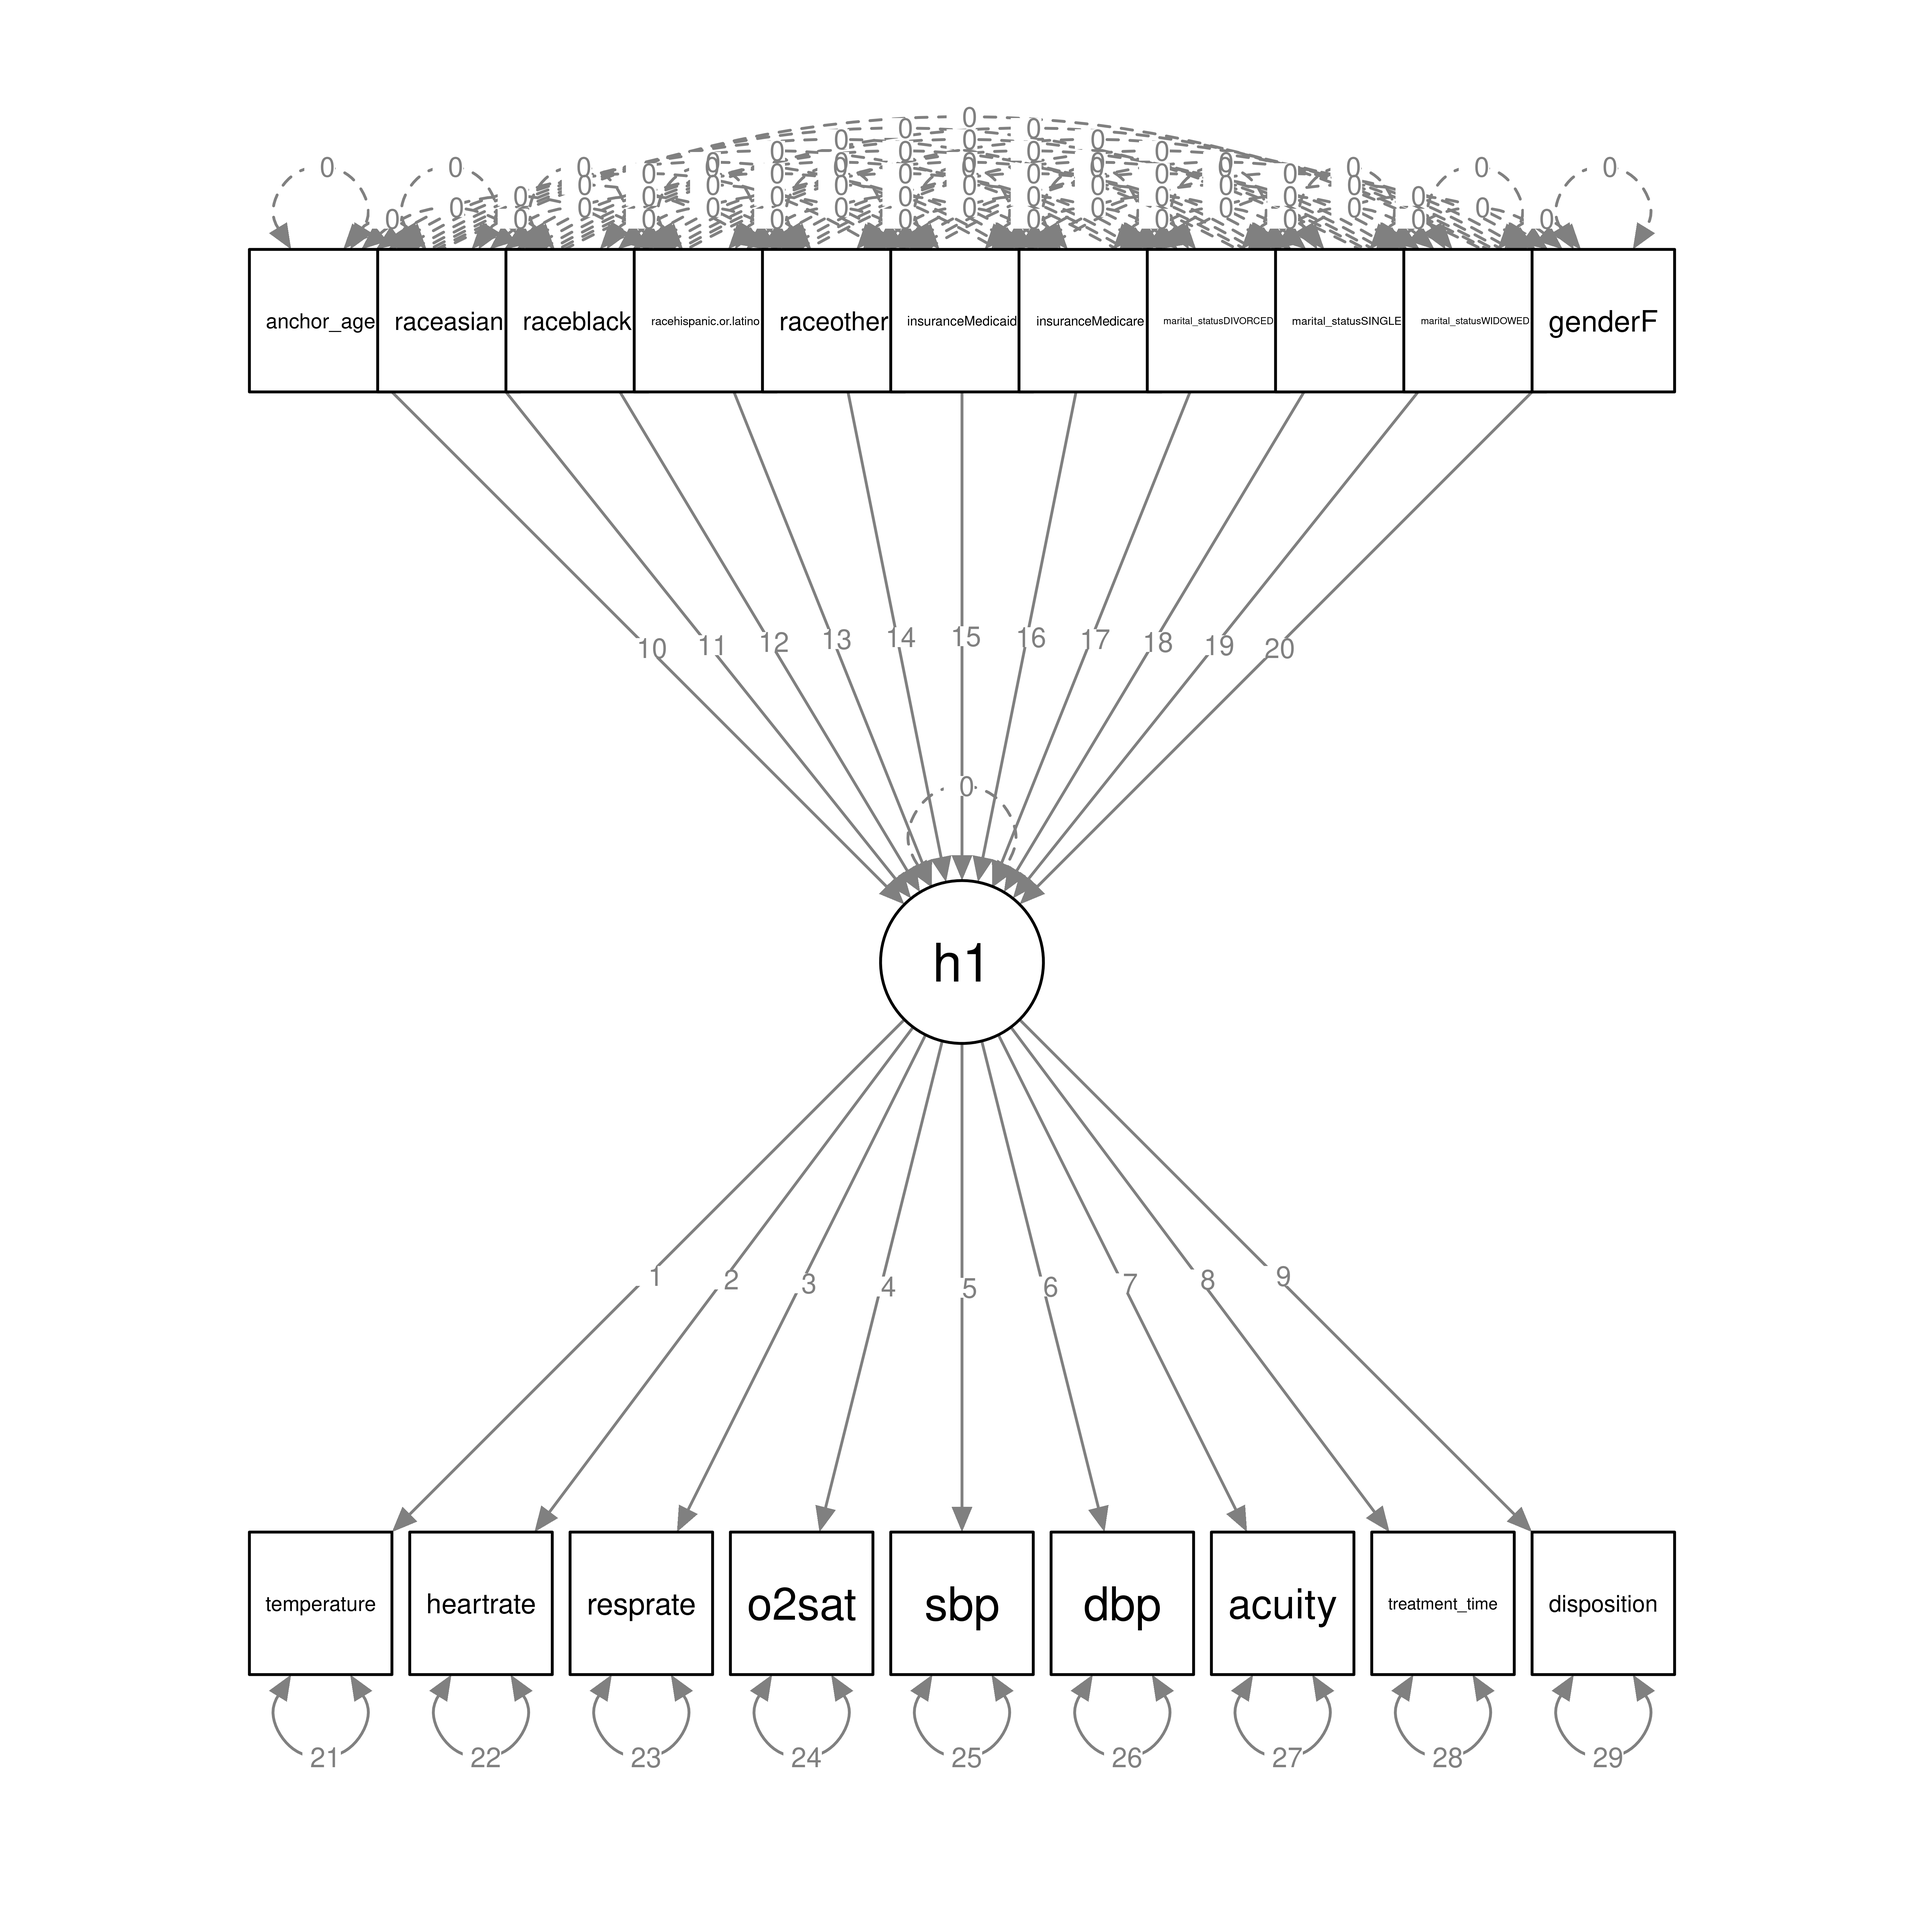
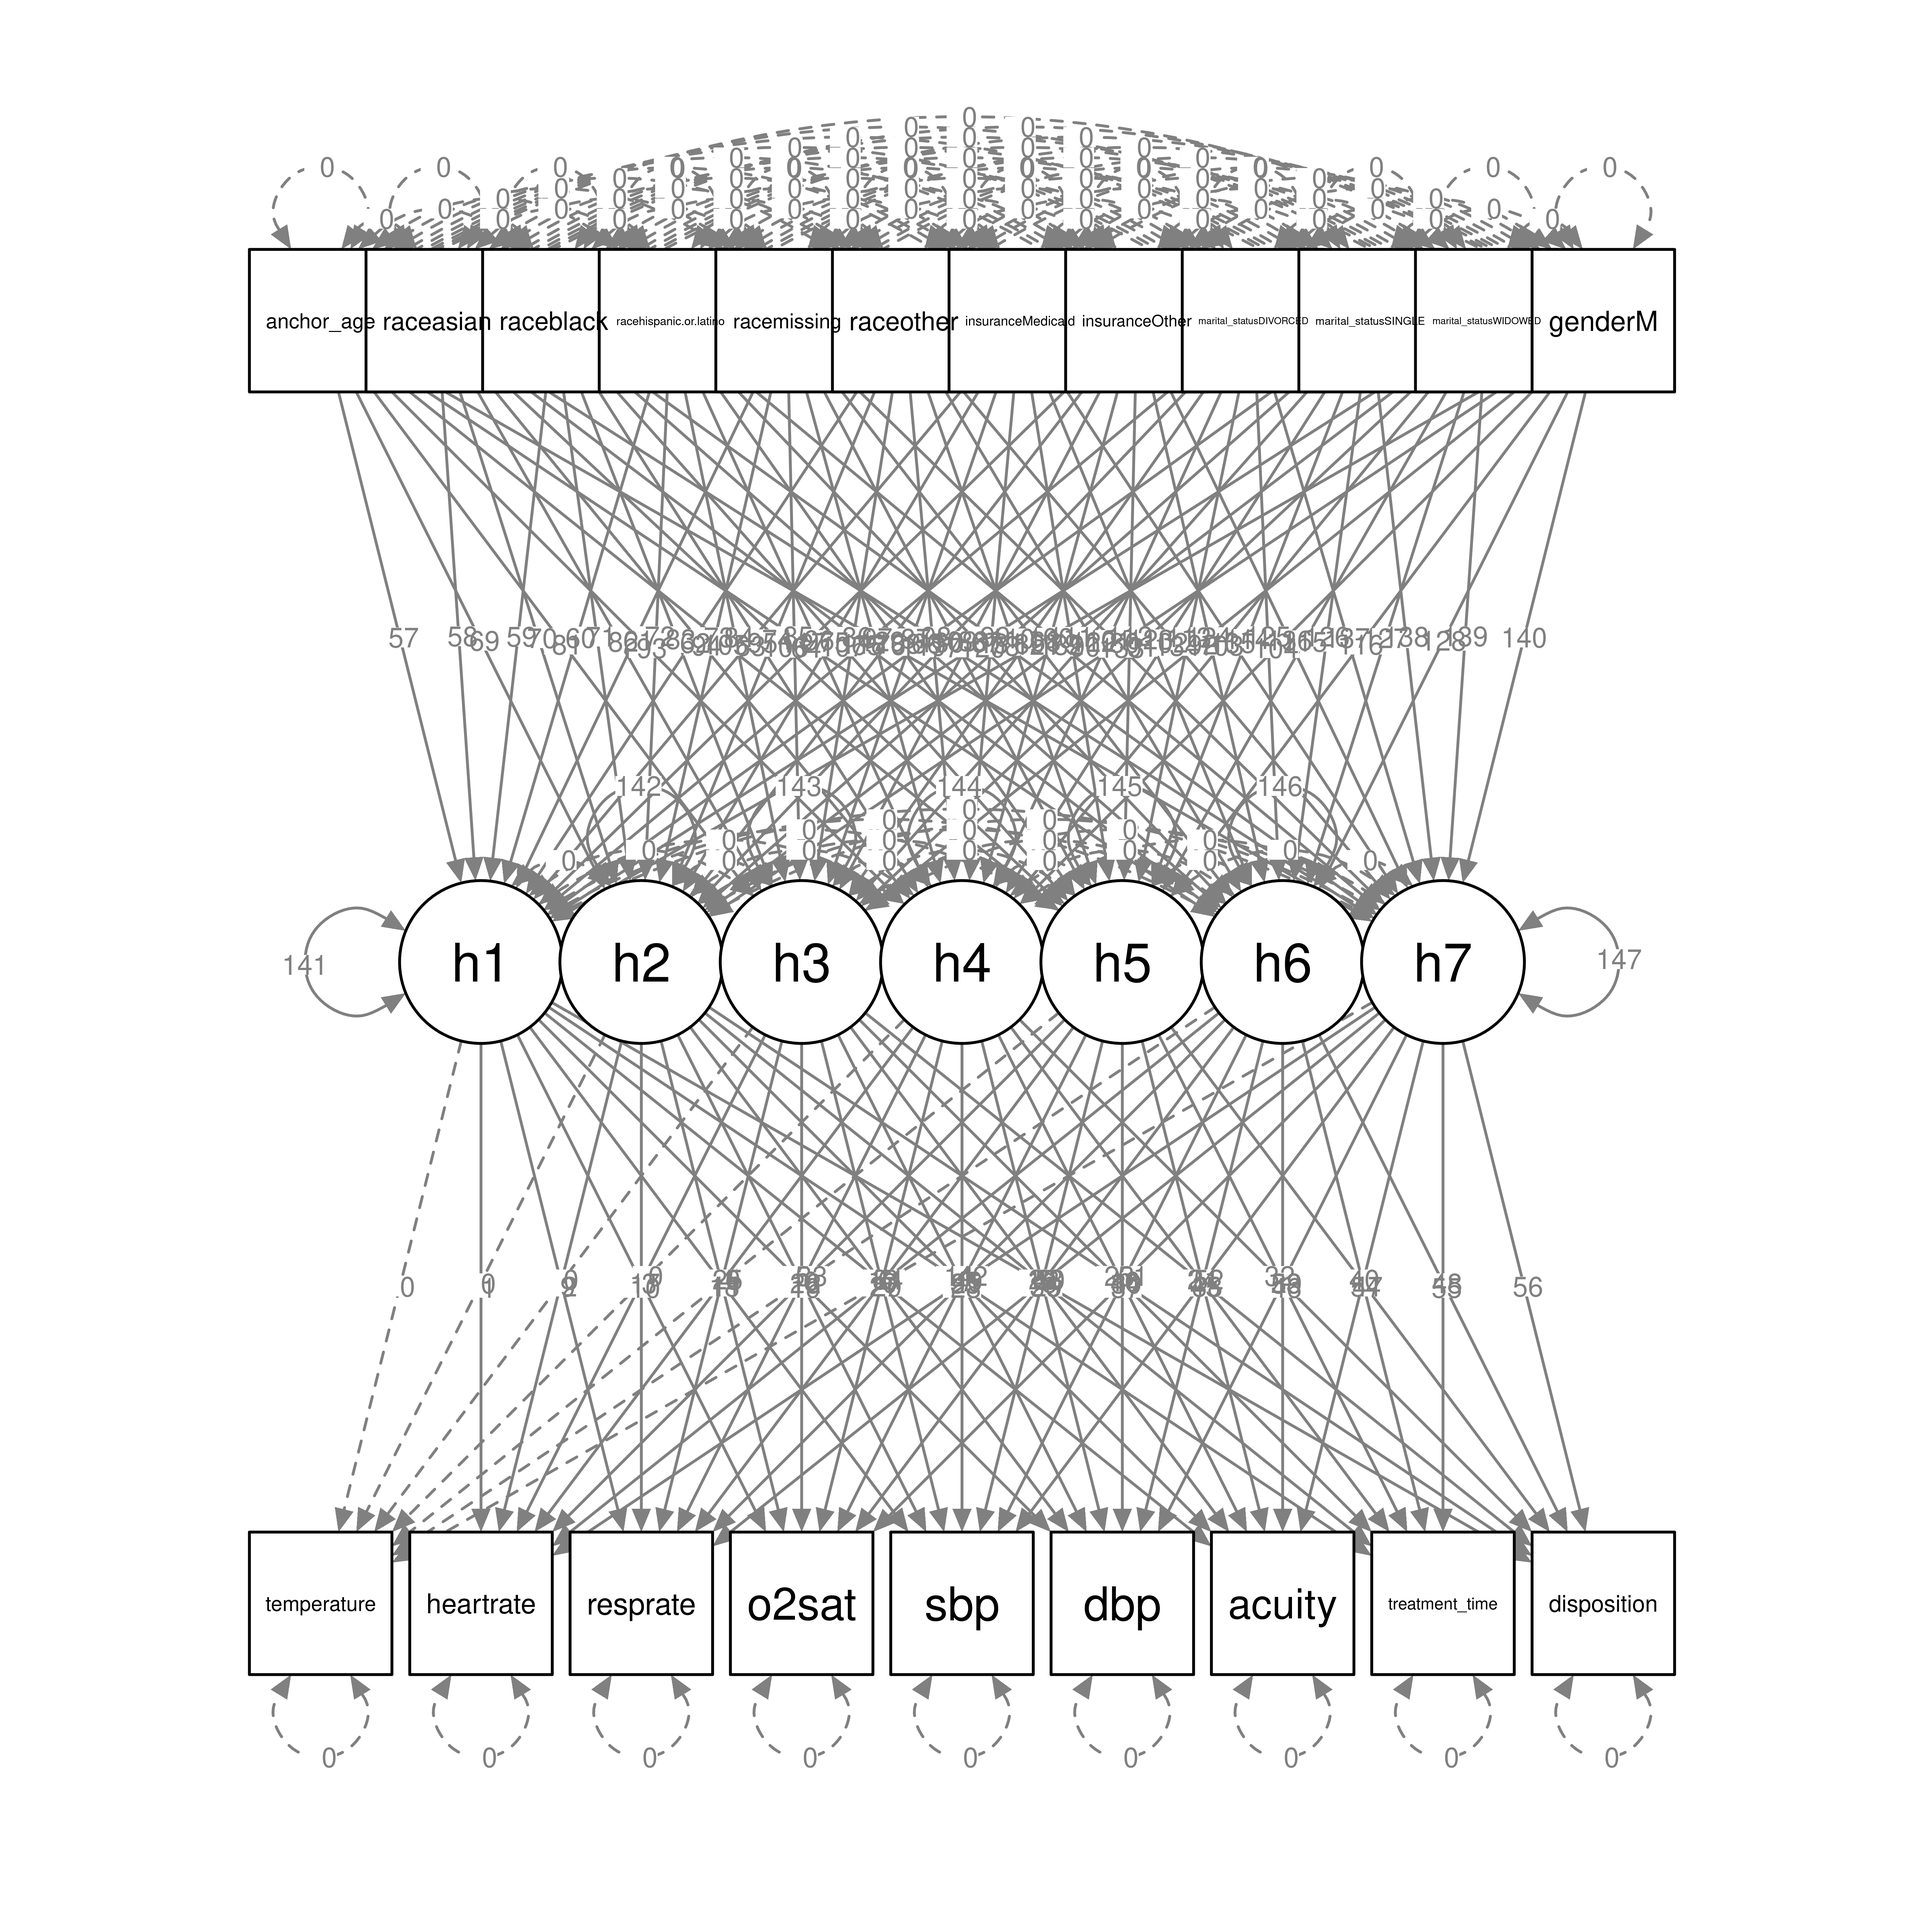
updated and clean file structure and README

diff --git a/README.md b/README.md
@@ -1,1 +1,13 @@
-Case Study Code
+Latent Proxy Variable Method Case Study Code
+
+Haley Colgate Kottler, Amy Cochran
+
+An analysis of the effect of hospitalization in older adults presenting to the 
+emergency department (ED) with chest pain. This analysis uses the data from 
+MIMIC-iv, available at https://mimic.mit.edu/docs/iv/
+
+For a clean example of our technique, see the file 'latentVariableMethod.R'
+
+Comparison methods can be found in 'IPW.R', 'linear.R', 'unadjusted.R', and 
+'proximal.R'. Data cleaning and variable selection are in 'cleanMIMIC.R' and 
+'variableSelection.R'.
